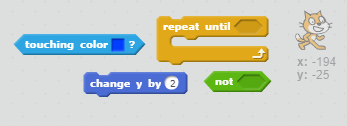
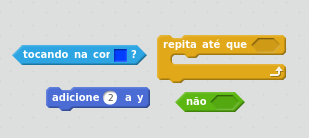
passo 6 texto e imagens traduzidos, passo 3 ajustado

diff --git a/pt-br/step_3.md b/pt-br/step_3.md
@@ -59,6 +59,6 @@ Assim é como seu código deve parecer:
 
 Você provavelmente irá notar que um ponto azul sempre aparece no canto superior direito do seu palco (circundado em vermelho). Isto acontece porque quando você clica sobre a bandeira verde para iniciar o jogo, o mouse é pressionado, então a caneta imadiatamente inicia o desenho.
 
-+ Adicione um bloco para esperar meio segundo antes do bloco `sempre` para impedir que isto aconteça. Caso ainda desenhe um ponto, adicione um bloco levantar caneta logo depois do bloco `quando clicar em bandeira verde`.
++ Adicione um bloco para esperar meio segundo antes do bloco `sempre` para impedir que isto aconteça. Caso ainda desenhe um ponto, adicione mais tempo de espera.
 
 ![Espere meio segundo](images/wait-half-second.png)

diff --git a/pt-br/step_6.md b/pt-br/step_6.md
@@ -16,7 +16,7 @@ O gato deve `mover acima 2`, e isto deve `repetir até que ele não esteja tocan
 --- hint ---
 Aqui estão os blocos de código que você vai precisar:
 ![Dica movendo acima](images/move-up-hint.png)
---- /hint ---
+--- /hint ---  
 
 --- hint ---
 É assim que seu código deve parecer:
